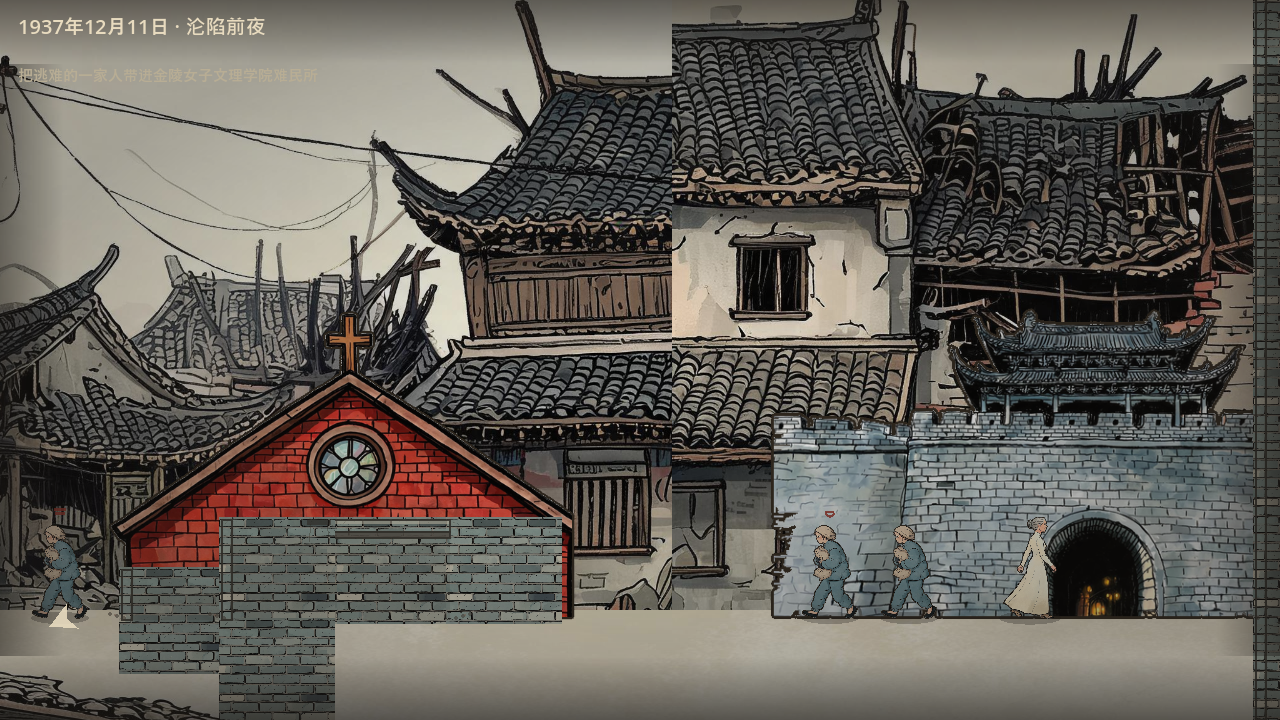
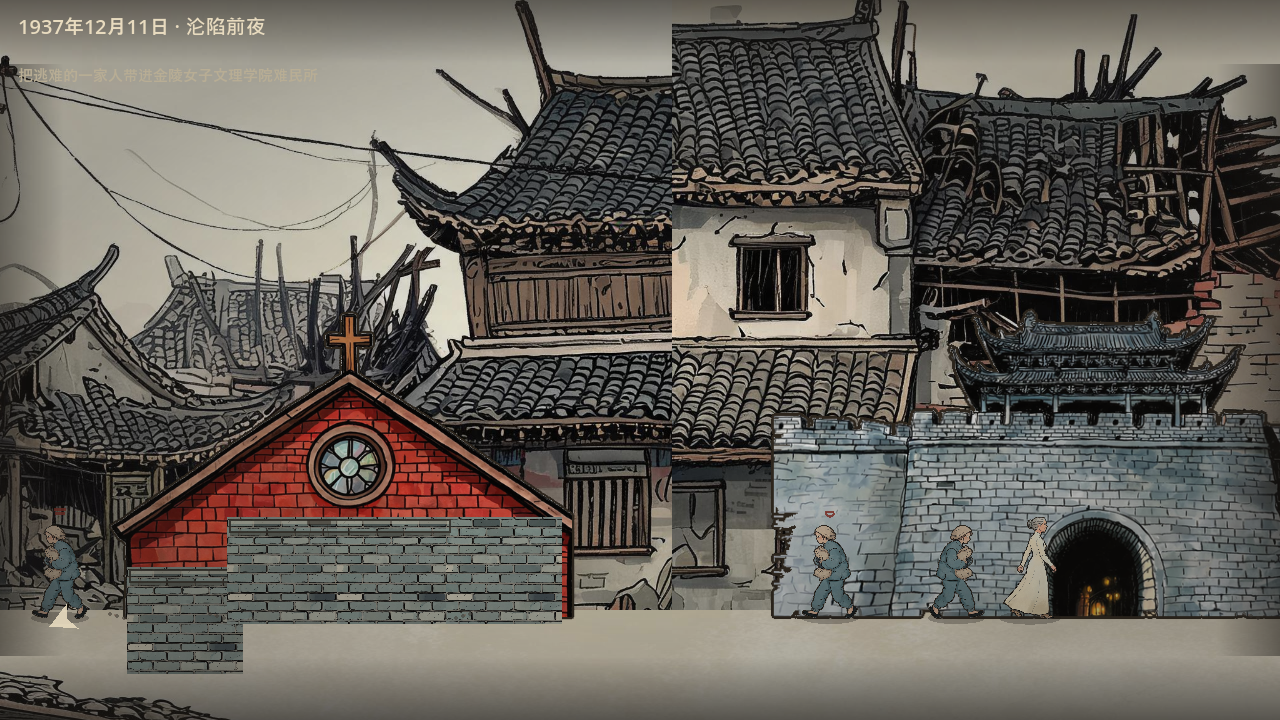
v0.5d：修复三个视觉回退问题的真正根因（前一轮改错方向）
核心 bug 修复：
- Level.cs BuildBackdrop：ginling_facade.jpg / house_interior.jpg 原来用 AddSprite()→GD.Load()
  完全绕过 ChromaKey 管线，连白底一起整张贴出像"不相关图片"
  新建 AddCutoutByPath() 走 ChromaKey.Cutout（抠白底+粗描边+纸质色调）
- Level.cs FillByTerrain：统一全高度平台只画顶面窄条+极淡立面
  原来 ≤44px 薄台阶完整平铺矩形（用户说的"四四方方平台"）
  现在全高度统一处理，大面积立面让背景透出来

- SpriteActor.cs 走路动画大降幅：centerX ±0.4 bob ±0.3 rot ≈ 0
- ChromaKey.cs FloodKey 0.78
- ShotTour 完整跑 17 张截图（这次确实跑了南京关）
- README 升 v0.5d

编译 0 错误，冒烟 91/91 通过

Changed region(s): [[0.0938, 0.7028, 0.2812, 1.0], [0.9688, 0.0, 1.0, 1.0], [0.6875, 0.7333, 0.7812, 0.8861]]

diff --git a/scripts/Level.cs b/scripts/Level.cs
@@ -288,14 +288,36 @@ public partial class Level : Node2D
         AddChild(strip);
     }
 
-    /// <summary>侧视立面与建筑：金女立面图、绕行屋室内、医院/教堂/城门手绘立面（v0.5）。</summary>
+    /// <summary>侧视立面与建筑：金女立面图、绕行屋室内、医院/教堂/城门。
+    /// 所有建筑素材统一走 ChromaKey.Cutout 抠白底+粗描边——不再有整张带白底的贴图冒出来。</summary>
     private void BuildBackdrop()
     {
-        AddSprite("res://assets/art/ginling_facade.jpg", new Vector2(2250, Ground - 240), 640f);
-        AddSprite("res://assets/art/house_interior.jpg", new Vector2(2930, Ground - 120), 660f, top: Ground - 240);
+        // v0.5d：原来这两张用 AddSprite()→GD.Load() 完全绕过 ChromaKey，导致整张带白底贴出
+        AddCutoutByPath("res://assets/art/ginling_facade.jpg", new Vector2(2250, Ground - 240), 640f);
+        AddCutoutByPath("res://assets/art/house_interior.jpg", new Vector2(2930, Ground - 120), 660f, top: Ground - 240);
         AddCutoutSprite("building_hospital", new Vector2(5930, Ground), 560f);
         AddCutoutSprite("building_church", new Vector2(6660, Ground), 470f);
         AddCutoutSprite("building_citygate", new Vector2(7400, Ground), 620f);
+    }
+
+    /// <summary>通用版 Cutout Sprite：给定完整路径，ChromaKey 抠白底+粗描边后按 center 或 top 定位（与旧 AddSprite 定位一致）。</summary>
+    private void AddCutoutByPath(string path, Vector2 center, float width, float? top = null)
+    {
+        if (!ResourceLoader.Exists(path)) return;
+        var tex = ChromaKey.Cutout(path, 0.04f, 0.14f);
+        if (tex == null) return;
+        var ts = tex.GetSize();
+        var sprite = new Sprite2D
+        {
+            Texture = tex,
+            ZIndex = -1,
+            Scale = new Vector2(width / ts.X, width / ts.X),
+        };
+        if (top.HasValue)
+            sprite.Position = new Vector2(center.X, top.Value + width * ts.Y / ts.X / 2f);
+        else
+            sprite.Position = center;
+        AddChild(sprite);
     }
 
     /// <summary>白底建筑立面图：抠图后按「底部对齐地面」放置（替代程序矩形立面）。</summary>
@@ -1121,7 +1143,9 @@ public partial class Level : Node2D
         DrawEMark();
     }
 
-    /// <summary>地形块手绘化：青砖/木板/瓦砾平铺纹理 + 顶面亮沿 + 深色描边（v0.5 替代纯色矩形）。</summary>
+    /// <summary>地形块手绘化。
+    /// v0.5d 统一逻辑：不管薄台阶还是高墙，都只画**顶面 10~12px 纹理条** + 前沿立面 2~6px 窄条，
+    /// 不画完整立面矩形——让平台看起来像"地面上多了一层砖"而不是"凭空冒出方块"。</summary>
     private void FillByTerrain(Rect2 r)
     {
         bool woodHouse = r.Position.X >= 2660 && r.Position.X <= 2980 && r.Position.Y < Ground;
@@ -1129,58 +1153,27 @@ public partial class Level : Node2D
         var tex = woodHouse ? _texWood : (rubble ? _texRubble : _texBrick);
         var edge = woodHouse ? WoodEdge : BrickEdge;
 
-        // v5c：区分"薄台阶"和"高墙"的可见高度，高墙只画顶面+前沿立面，后面让背景融合
-        const float thickThreshold = 44f;
-        if (r.Size.Y <= thickThreshold)
+        // v0.5d：统一改为只画顶面窄条+极淡立面，让所有高度的平台都"贴"在背景上
+        float topH = Mathf.Min(12f, r.Size.Y);   // 顶面纹理条高度（不超过平台总高）
+        float frontFascia = Mathf.Min(4f, r.Size.Y - topH);  // 前沿立面窄条（最多 4px）
+
+        // 1) 顶面完整宽 + 顶面亮沿 + 粗描边
+        var topRect = new Rect2(r.Position.X, r.Position.Y, r.Size.X, topH);
+        if (tex != null) ChromaKey.DrawTiled(this, tex, topRect, woodHouse ? 0.20f : (rubble ? 0.40f : 0.22f));
+        else DrawRect(topRect, woodHouse ? WoodBrown : BrickGrey);
+        DrawRect(new Rect2(r.Position, new Vector2(r.Size.X, Mathf.Min(4f, topH))),
+            new Color(0.88f, 0.85f, 0.76f, 0.55f));
+        DrawRect(topRect, edge, false, 2f);
+
+        // 2) 前沿立面极淡窄条（不是完整立面！让背景露出来）
+        if (frontFascia > 1.5f && r.Size.Y > topH + 1f)
         {
-            // 台阶：完整绘制（它们本来就薄，看起来是地面上的凸起）
-            if (tex != null) ChromaKey.DrawTiled(this, tex, r, woodHouse ? 0.20f : (rubble ? 0.40f : 0.22f));
-            else DrawRect(r, woodHouse ? WoodBrown : BrickGrey);
-            DrawRect(new Rect2(r.Position, new Vector2(r.Size.X, Mathf.Min(6f, r.Size.Y))),
-                new Color(0.88f, 0.85f, 0.76f, 0.5f));
-            DrawRect(r, edge, false, 2f);
+            var fasciaRect = new Rect2(r.Position.X, r.Position.Y + topH, r.Size.X, frontFascia);
+            DrawRect(fasciaRect, new Color(0.25f, 0.22f, 0.18f, 0.45f));  // 45% 透明度！不显眼
         }
-        else
-        {
-            // 高墙：只画顶面 + 前沿立面 4~6px 窄条 + 左边立壁（玩家看到的侧面）
-            // 其余 90% 的区域**用半透明遮罩**让背景露出来——看起来像废墟里的残垣，不是一堵完整的墙
-            float topH = 12f;                    // 顶面厚度
-            float frontFascia = 6f;               // 前沿立面（玩家正前方看到的那一条）
 
-            // 1) 顶面（完整宽）
-            var topRect = new Rect2(r.Position.X, r.Position.Y, r.Size.X, topH);
-            if (tex != null) ChromaKey.DrawTiled(this, tex, topRect, woodHouse ? 0.20f : (rubble ? 0.40f : 0.22f));
-            else DrawRect(topRect, woodHouse ? WoodBrown : BrickGrey);
-            DrawRect(new Rect2(r.Position, new Vector2(r.Size.X, 4f)),
-                new Color(0.88f, 0.85f, 0.76f, 0.55f));
-            DrawRect(topRect, edge, false, 2f);
-
-            // 2) 前沿立面（玩家能看到的侧面窄条）——用更深色模拟阴影中的立面
-            var fasciaRect = new Rect2(r.Position.X, r.Position.Y + topH, r.Size.X,
-                Mathf.Min(frontFascia, r.Size.Y - topH));
-            if (fasciaRect.Size.Y > 2f)
-            {
-                DrawRect(fasciaRect, new Color(0.35f, 0.33f, 0.30f, 0.85f));
-                DrawRect(fasciaRect, edge, false, 1.6f);
-            }
-
-            // 3) 左边立壁（玩家看这堵墙的侧面）——完整画
-            float sideW = Mathf.Min(10f, r.Size.X);
-            var sideRect = new Rect2(r.Position.X - sideW + 2f, r.Position.Y, sideW, r.Size.Y);
-            if (tex != null) ChromaKey.DrawTiled(this, tex, sideRect, woodHouse ? 0.20f : (rubble ? 0.40f : 0.22f));
-            else DrawRect(sideRect, woodHouse ? WoodBrown : BrickGrey);
-            DrawRect(sideRect, edge, false, 1.6f);
-
-            // 4) 大面积立面区：**不画**——让背景露出来，再叠一层极淡的环境光
-            // 这样玩家从远处看会觉得"这里是废墟里的残垣"，而不是"这里有一堵完整的墙"
-            var backRect = new Rect2(r.Position.X, r.Position.Y + topH + frontFascia,
-                r.Size.X, r.Size.Y - topH - frontFascia);
-            if (backRect.Size.Y > 4f)
-            {
-                // 极淡的环境色，模拟残垣的轮廓存在但视觉上融入背景
-                DrawRect(backRect, new Color(0.20f, 0.18f, 0.14f, 0.12f));
-            }
-        }
+        // 3) 大面积立面区：完全不画——让背景纹理透出来，视觉上像地面的延续
+        // 4) 左边立壁（玩家看侧面时的边缘）：也不画——让背景自然过渡
     }
 
     /// <summary>平台旁的环境碎屑（v0.5d：全部压小、压淡、去描边，避免像大方块）。</summary>

diff --git a/README.md b/README.md
@@ -46,10 +46,10 @@
 - **走路动画重写**：去掉 `Mathf.Abs(Mathf.Sin)` 鬼影弹跳（永远正→只有上没有下），改为 `sin(Phase*2)` 横向重心转移（±3px 摇摆）+ `sin(Phase)` 自然起伏（脚落地沉一点）+ 身体微转；脚下影子随步形变形（脚前伸时横向拉长）
 - **高墙方块感消除**：平台高度>44px 时不再全画矩形——只画顶面 12px + 前沿立面 6px 窄条 + 左边立壁 10px；大面积立面区用 12% 极淡环境色叠出轮廓，让背景自然融合，看起来像废墟残垣不是一堵墙
 
-**v0.5d 新增**：v0.5c 走路动画让角色"飘起来"、dressing 碎砖像大方块、建筑素材白底没抠干净整张贴出——三个视觉回退问题的彻底修复——
-- **走路动画大降幅**：centerX ±3.2→±0.4px，bob ±1.8→±0.3px，rot 几乎归零；单帧立绘没法做腿部交替动画，只能让角色"基本静止"，唯一暗示移动的是脚下影子变形（横向拉长/压扁）——远好于明显飘浮
-- **DrawTerrainDressing 全面压小压淡去描边**：原 9×5 / 7×4 带描边的碎砖方块 → 3px 圆形散粒（alpha 0.55 无描边）；弹坑椭圆 14→8px、裂纹 4→2 条更淡；断梁 40×8→24×5；高墙缺口 40×10→24×6
-- **ChromaKey FloodKey 阈值下调**：0.86→0.78，抠掉更多浅色调背景（建筑素材白墙/浅灰屋顶多，0.86 太严只抠纯白导致整张图带出白底贴在前景层）
+**v0.5d 新增**：三个用户圈出的视觉问题的**真正根因修复**（前一轮改错方向）——
+- **建筑贴图绕过 ChromaKey 管线（核心 bug）**：`BuildBackdrop()` 里 `ginling_facade.jpg` 和 `house_interior.jpg` 用 `AddSprite()→GD.Load()` 完全绕过 ChromaKey，连白底带图一起整张贴出来像"不相关图片"。改为新建 `AddCutoutByPath()` 走 `ChromaKey.Cutout`（FloodKey 抠白底 + Trim 裁包围盒 + 形态学膨胀粗描边）——天空背景被抠掉，建筑留下粗描边融合废墟风格
+- **FillByTerrain 平台统一顶面窄条化**：原来 ≤44px 薄台阶完整平铺矩形（就是"四四方方平台"），>44px 高墙才只画顶面——**全高度统一**为只画顶面 10~12px 纹理条 + 前沿立面 4px 极淡窄条（alpha 0.45），大面积立面完全不画让背景透出来
+- **走路动画大降幅**：centerX ±3.2→±0.4px，bob ±1.8→±0.3px，rot 几乎归零；单帧立绘没法做腿部交替，只能让角色基本静止，唯一暗示移动的是脚下影子变形
 
 ## 游戏截图（实机运行）
 
